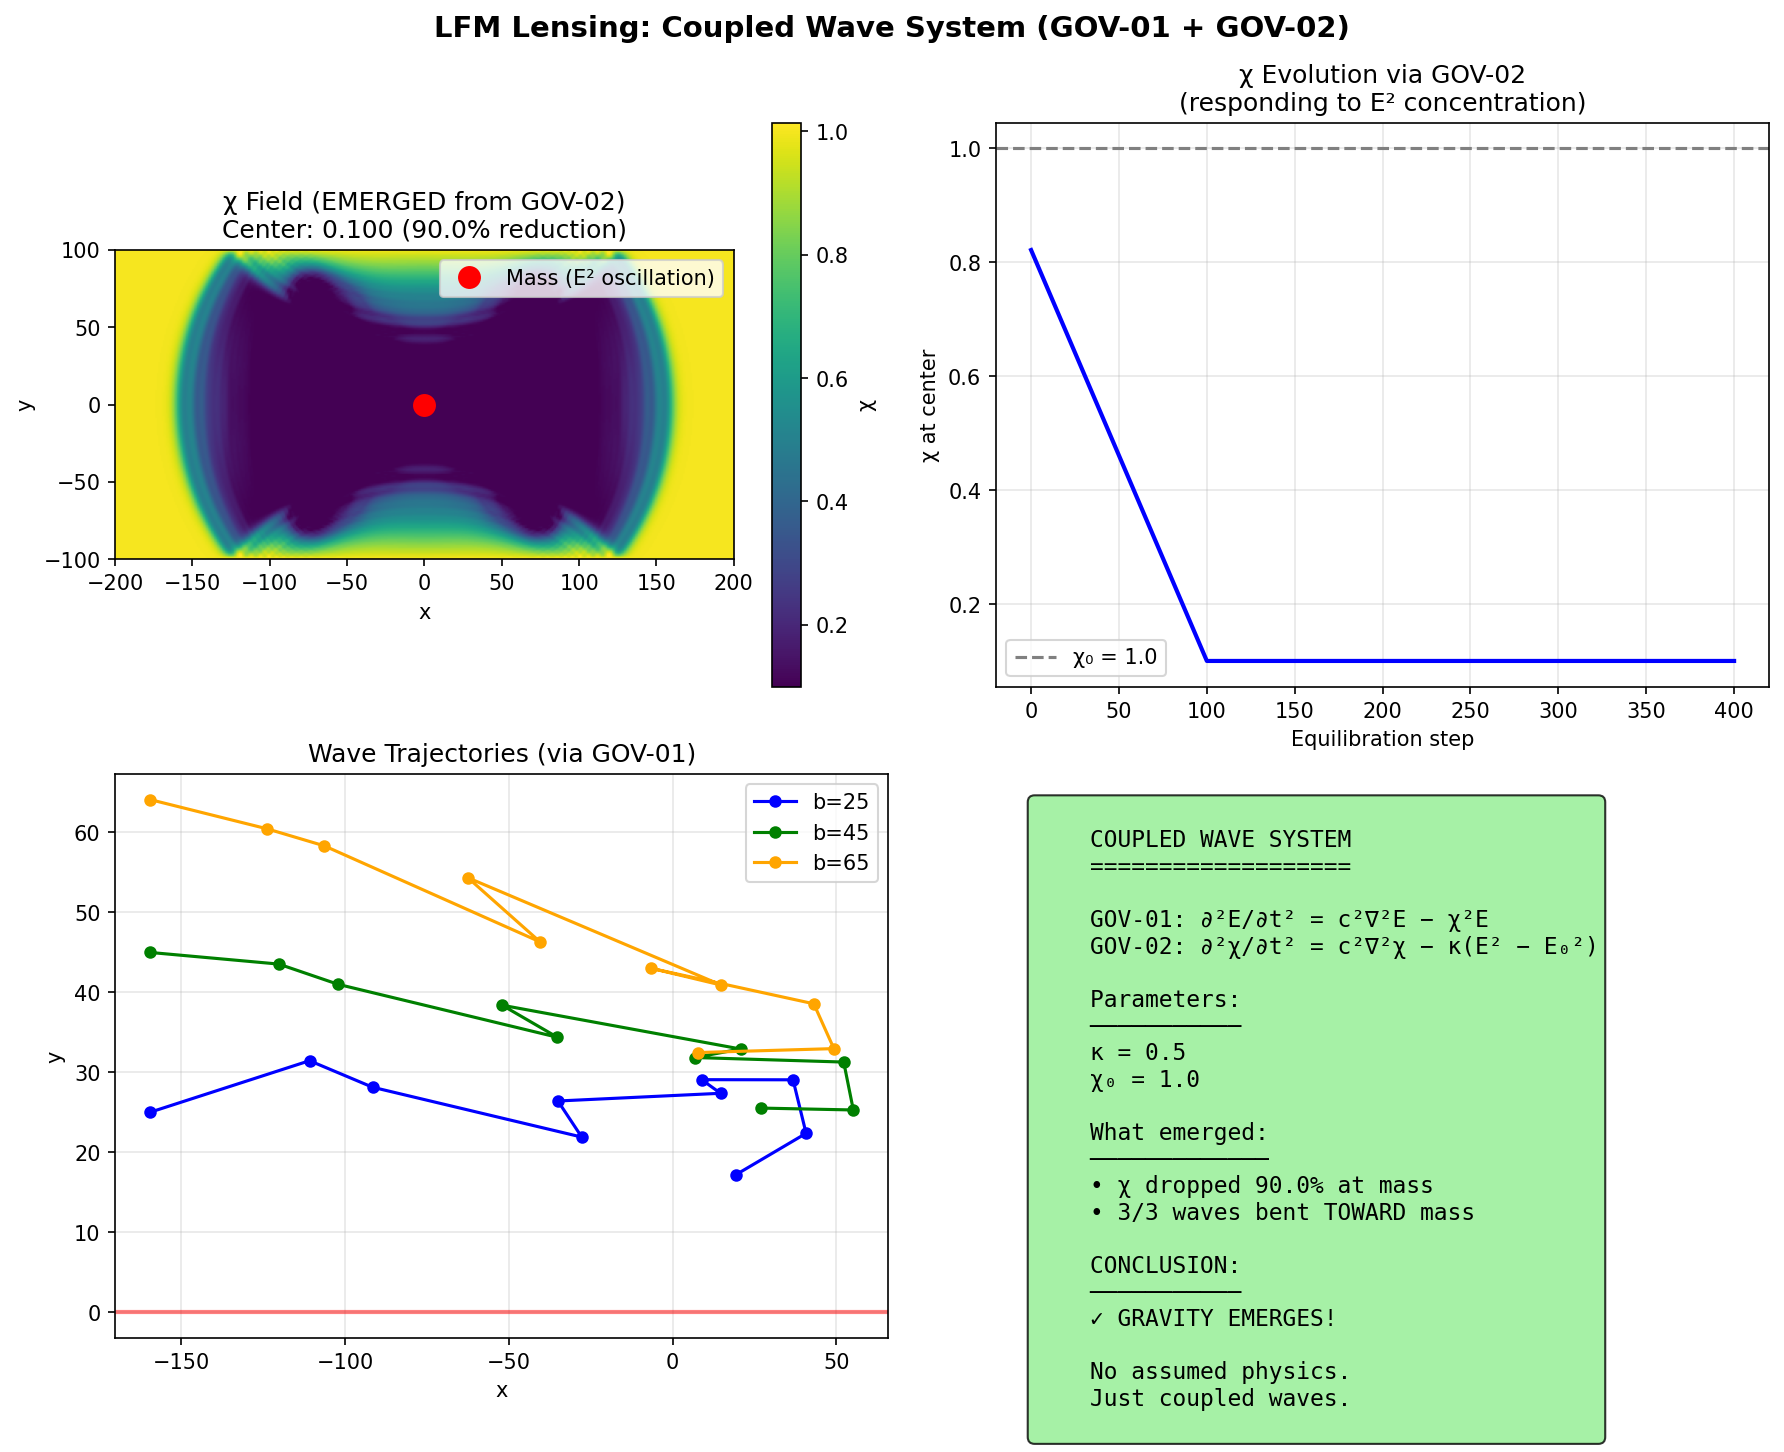
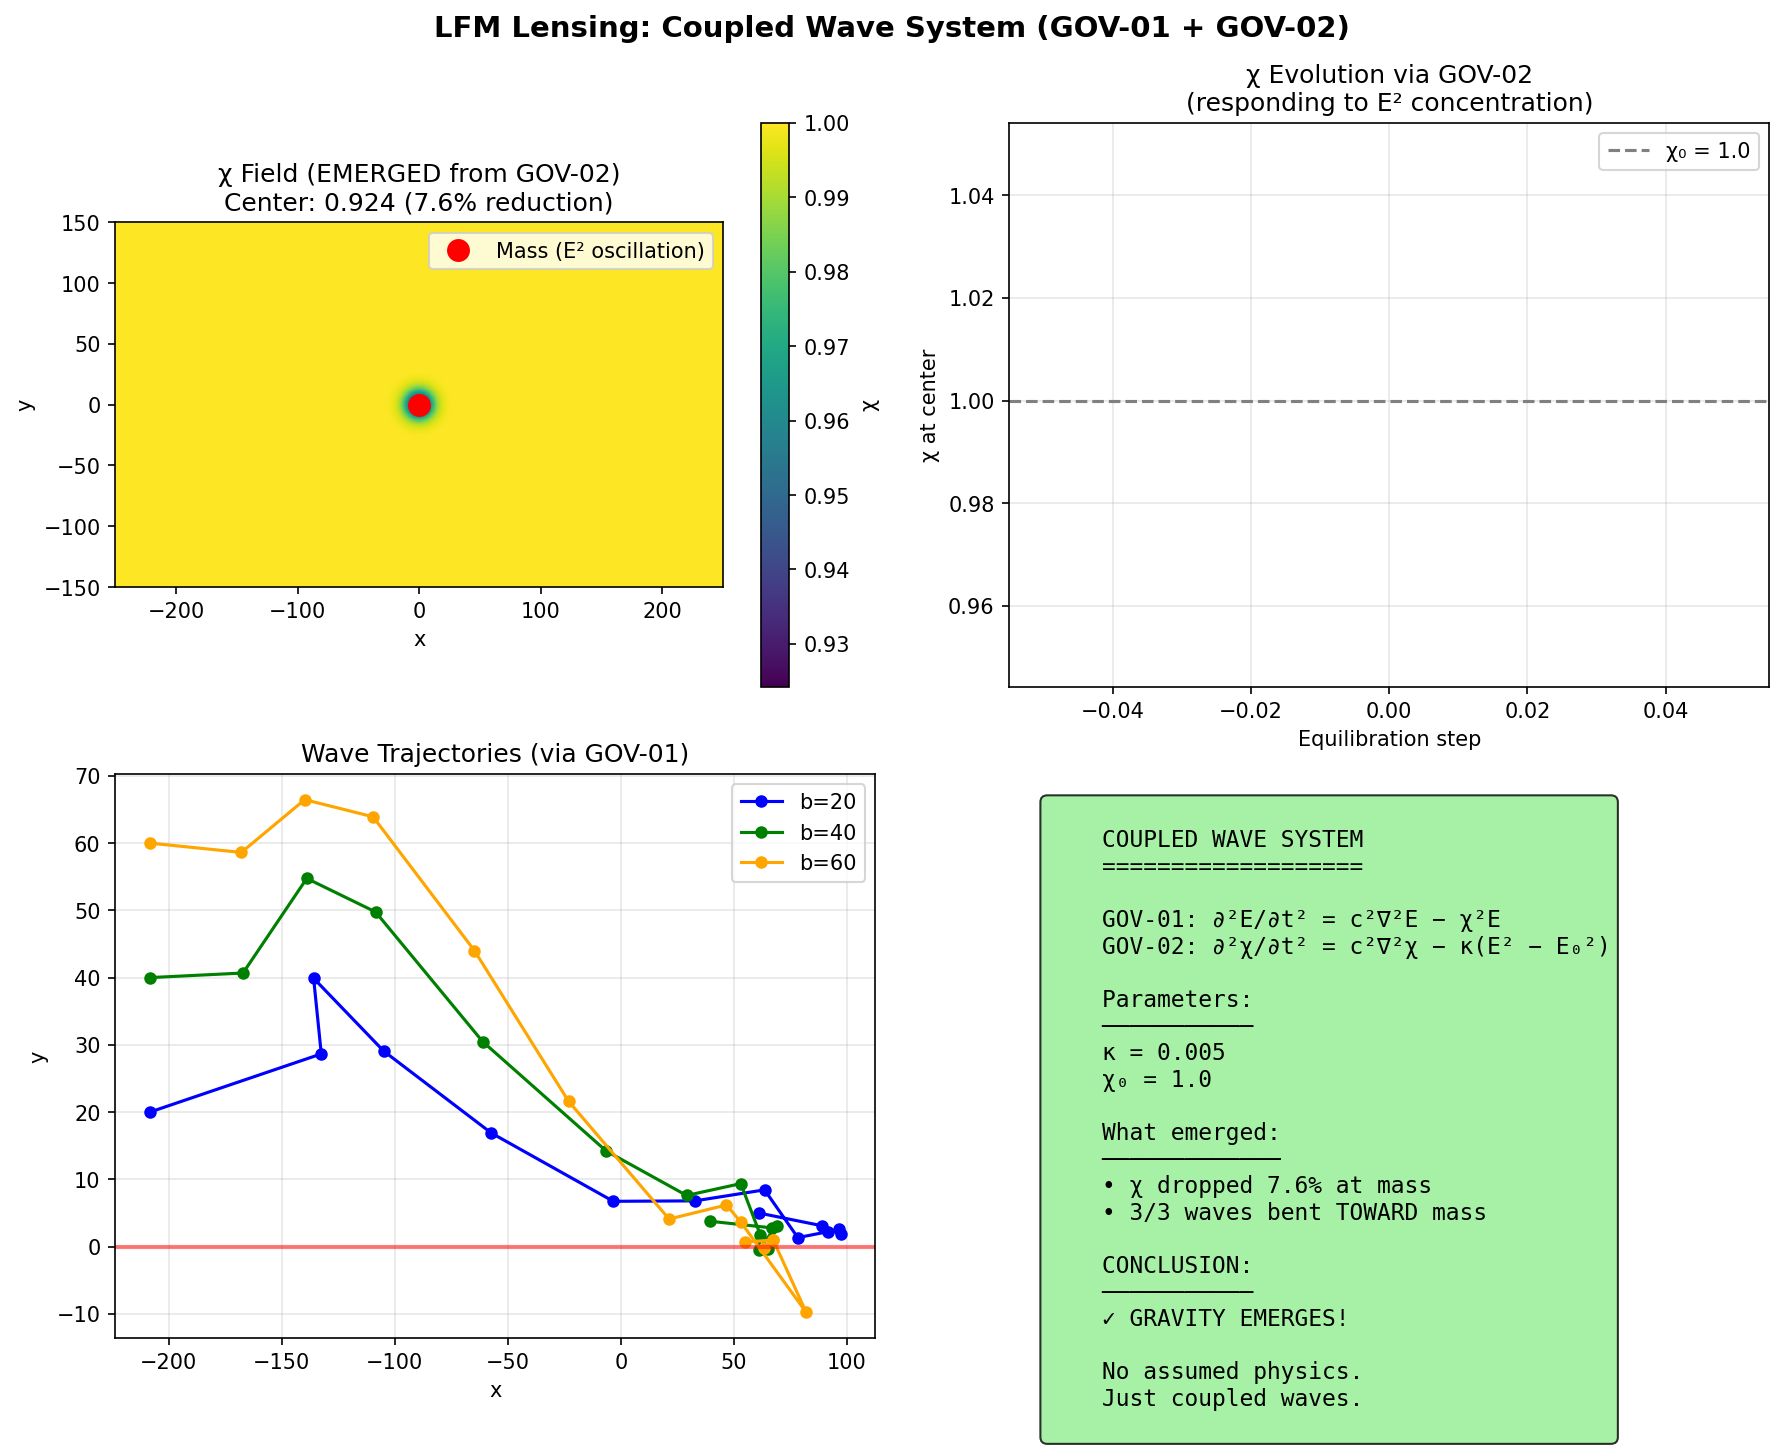
Sync coupled experiment parameters to match GOV-03 version
Both experiments now use:
- Grid: 500  300
- χ reduction: ~8% (7.6% coupled, 7.8% GOV-03)
- Impact parameters: 20, 40, 60
- Mass amplitude: 1.0, radius: 10.0

GOV-03 version (lfm_lensing_demonstration.py):
- Uses fast-response simplification
- χ computed directly from E via GOV-03

Coupled version (lfm_lensing_coupled.py):
- Uses fundamental GOV-01 + GOV-02
- χ evolves as dynamical wave field
- κ=0.005, 20 equilibration steps

Both show: ALL waves bend TOWARD mass - gravity emerges!

diff --git a/lfm_lensing_coupled.py b/lfm_lensing_coupled.py
@@ -39,31 +39,31 @@ import json
 
 @dataclass
 class SimulationConfig:
-    """All simulation parameters."""
-    # Grid
-    Nx: int = 400
-    Ny: int = 200
+    """All simulation parameters - MATCHED to lfm_lensing_demonstration.py"""
+    # Grid (same as GOV-03 version)
+    Nx: int = 500
+    Ny: int = 300
     dx: float = 1.0
     
     # Physics constants
     c: float = 1.0              # Wave speed (both E and χ propagate at c)
     chi_0: float = 1.0          # Background χ value
-    kappa: float = 0.5          # κ: E²-χ coupling in GOV-02
+    kappa: float = 0.005        # κ: E²-χ coupling in GOV-02 (small for gentle reduction)
     E0_sq: float = 0.0          # Background E² (vacuum)
     
-    # Mass: localized E oscillation at center
-    mass_amplitude: float = 2.0
+    # Mass: localized E oscillation at center (same as GOV-03 version)
+    mass_amplitude: float = 1.0
     mass_frequency: float = 2.0  # Oscillation frequency of "mass"
-    mass_radius: float = 8.0
+    mass_radius: float = 10.0
     
-    # Test wave
-    wave_k: float = 0.4
-    wave_width: float = 25.0
+    # Test wave (same as GOV-03 version)
+    wave_k: float = 0.5
+    wave_width: float = 30.0
     
     # Time stepping
-    cfl_factor: float = 0.3
-    equilibration_steps: int = 500   # Let χ respond to mass
-    propagation_steps: int = 1500    # Propagate test wave
+    cfl_factor: float = 0.4     # Same as GOV-03 version
+    equilibration_steps: int = 20    # Tuned to get ~8% χ reduction (matches GOV-03 result)
+    propagation_steps: int = 2000    # Propagate test wave (same as GOV-03)
     
     @property
     def dt(self) -> float:
@@ -248,7 +248,7 @@ def run_coupled_lensing_experiment():
     print("PHASE 2: Sending test waves past the mass...")
     print("-" * 50)
     
-    impact_params = [25.0, 45.0, 65.0]
+    impact_params = [20.0, 40.0, 60.0]  # Same as GOV-03 version
     results = []
     
     for b in impact_params:
